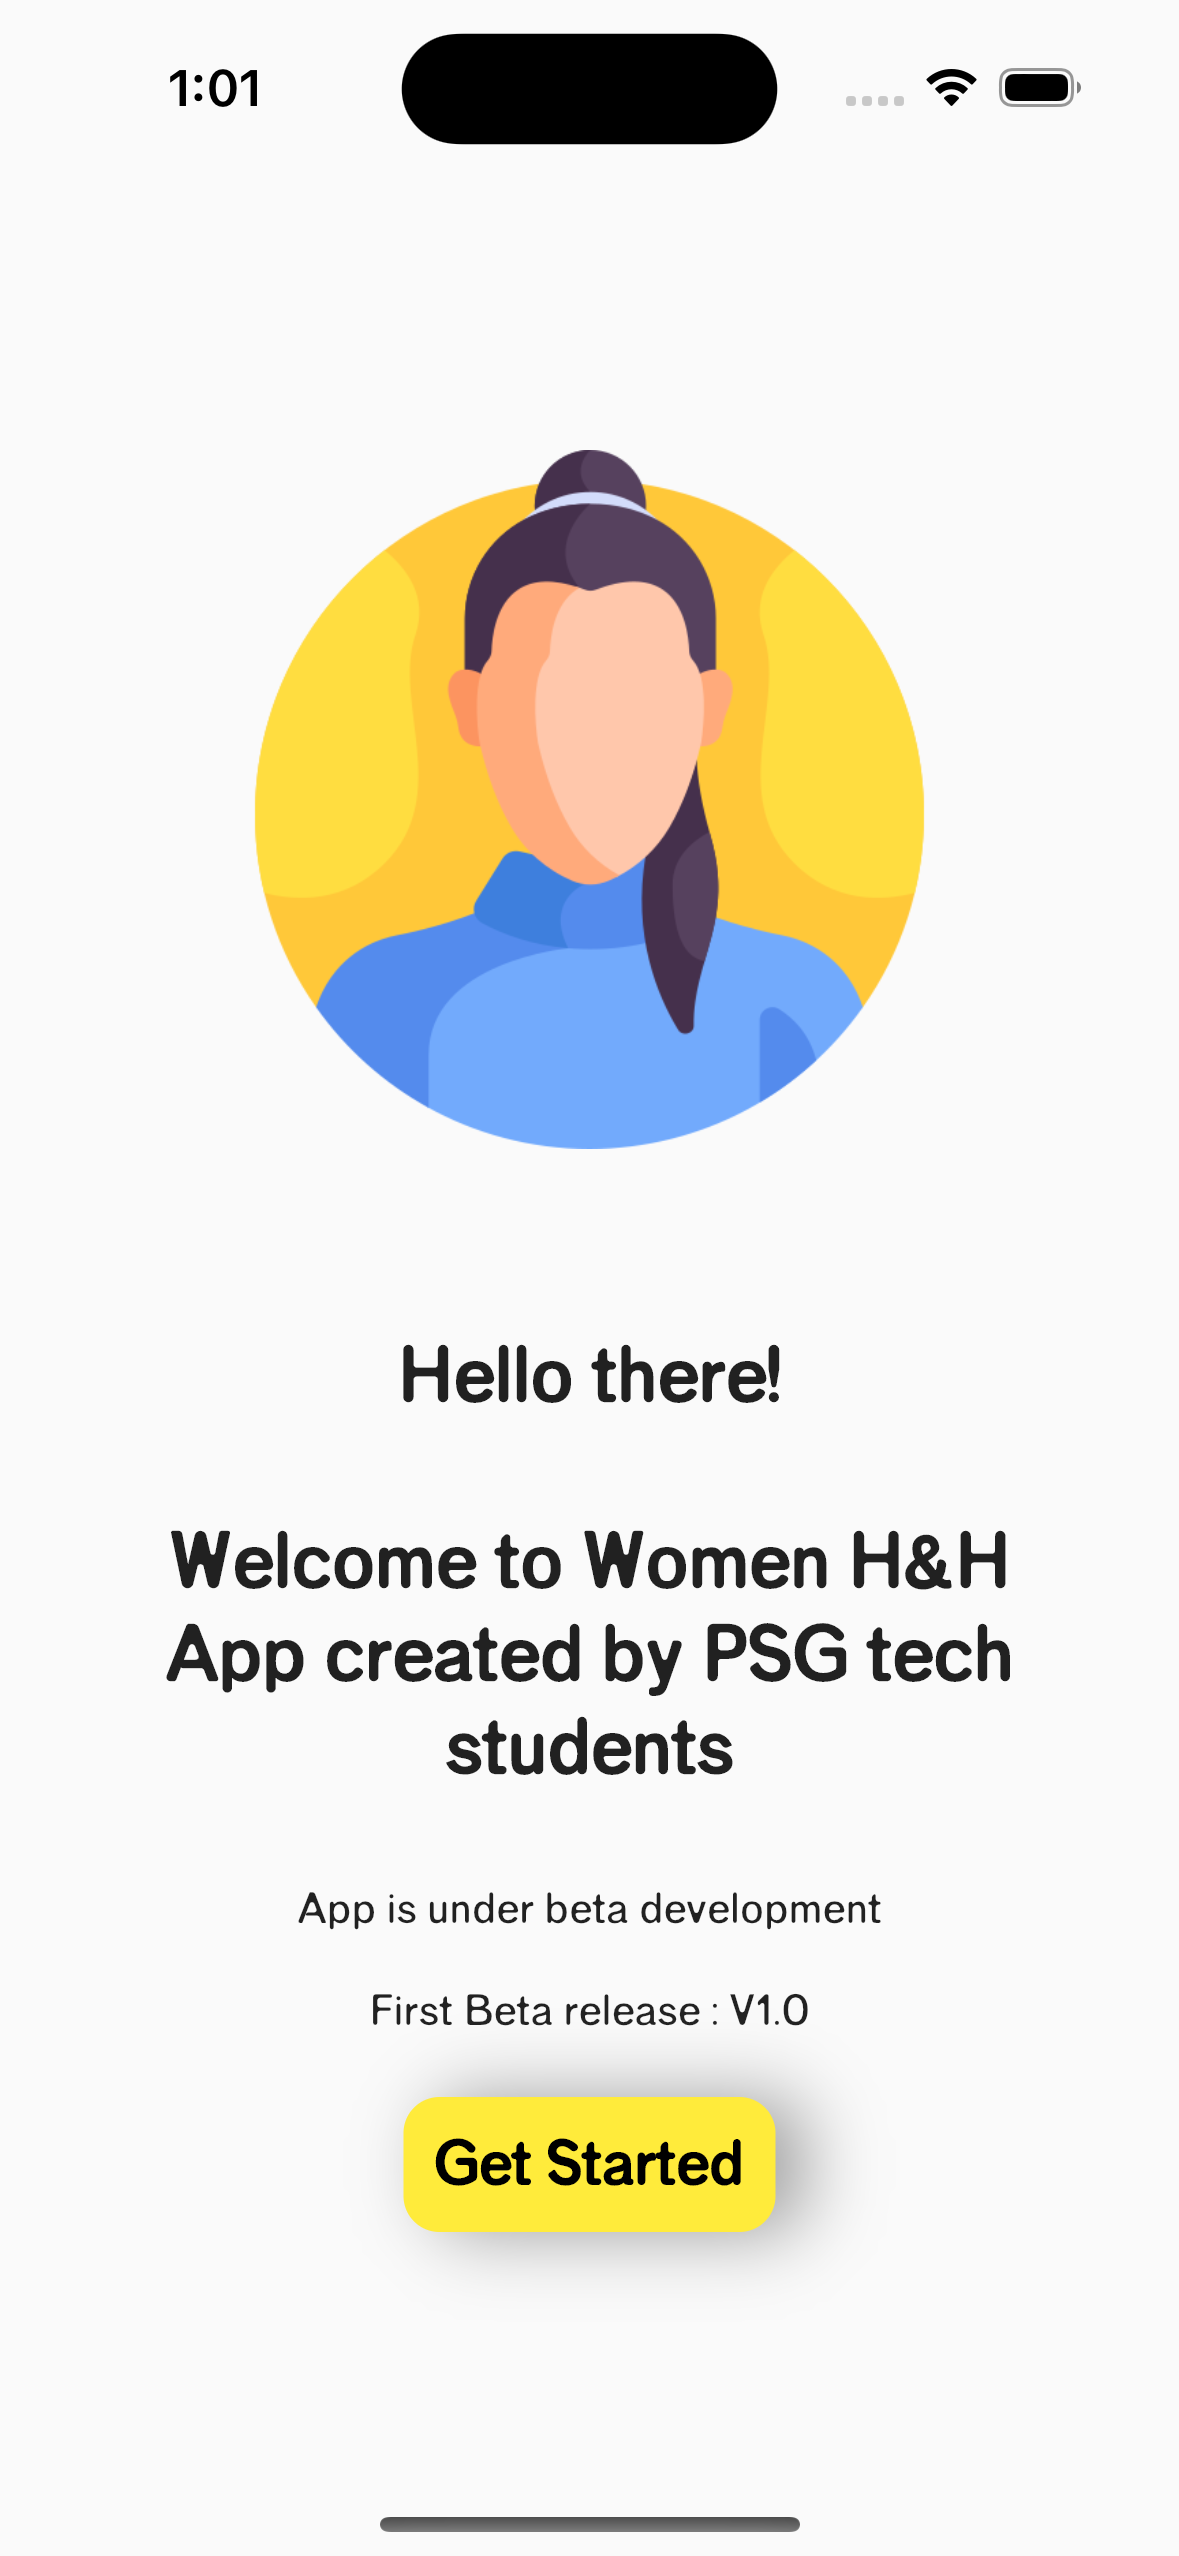
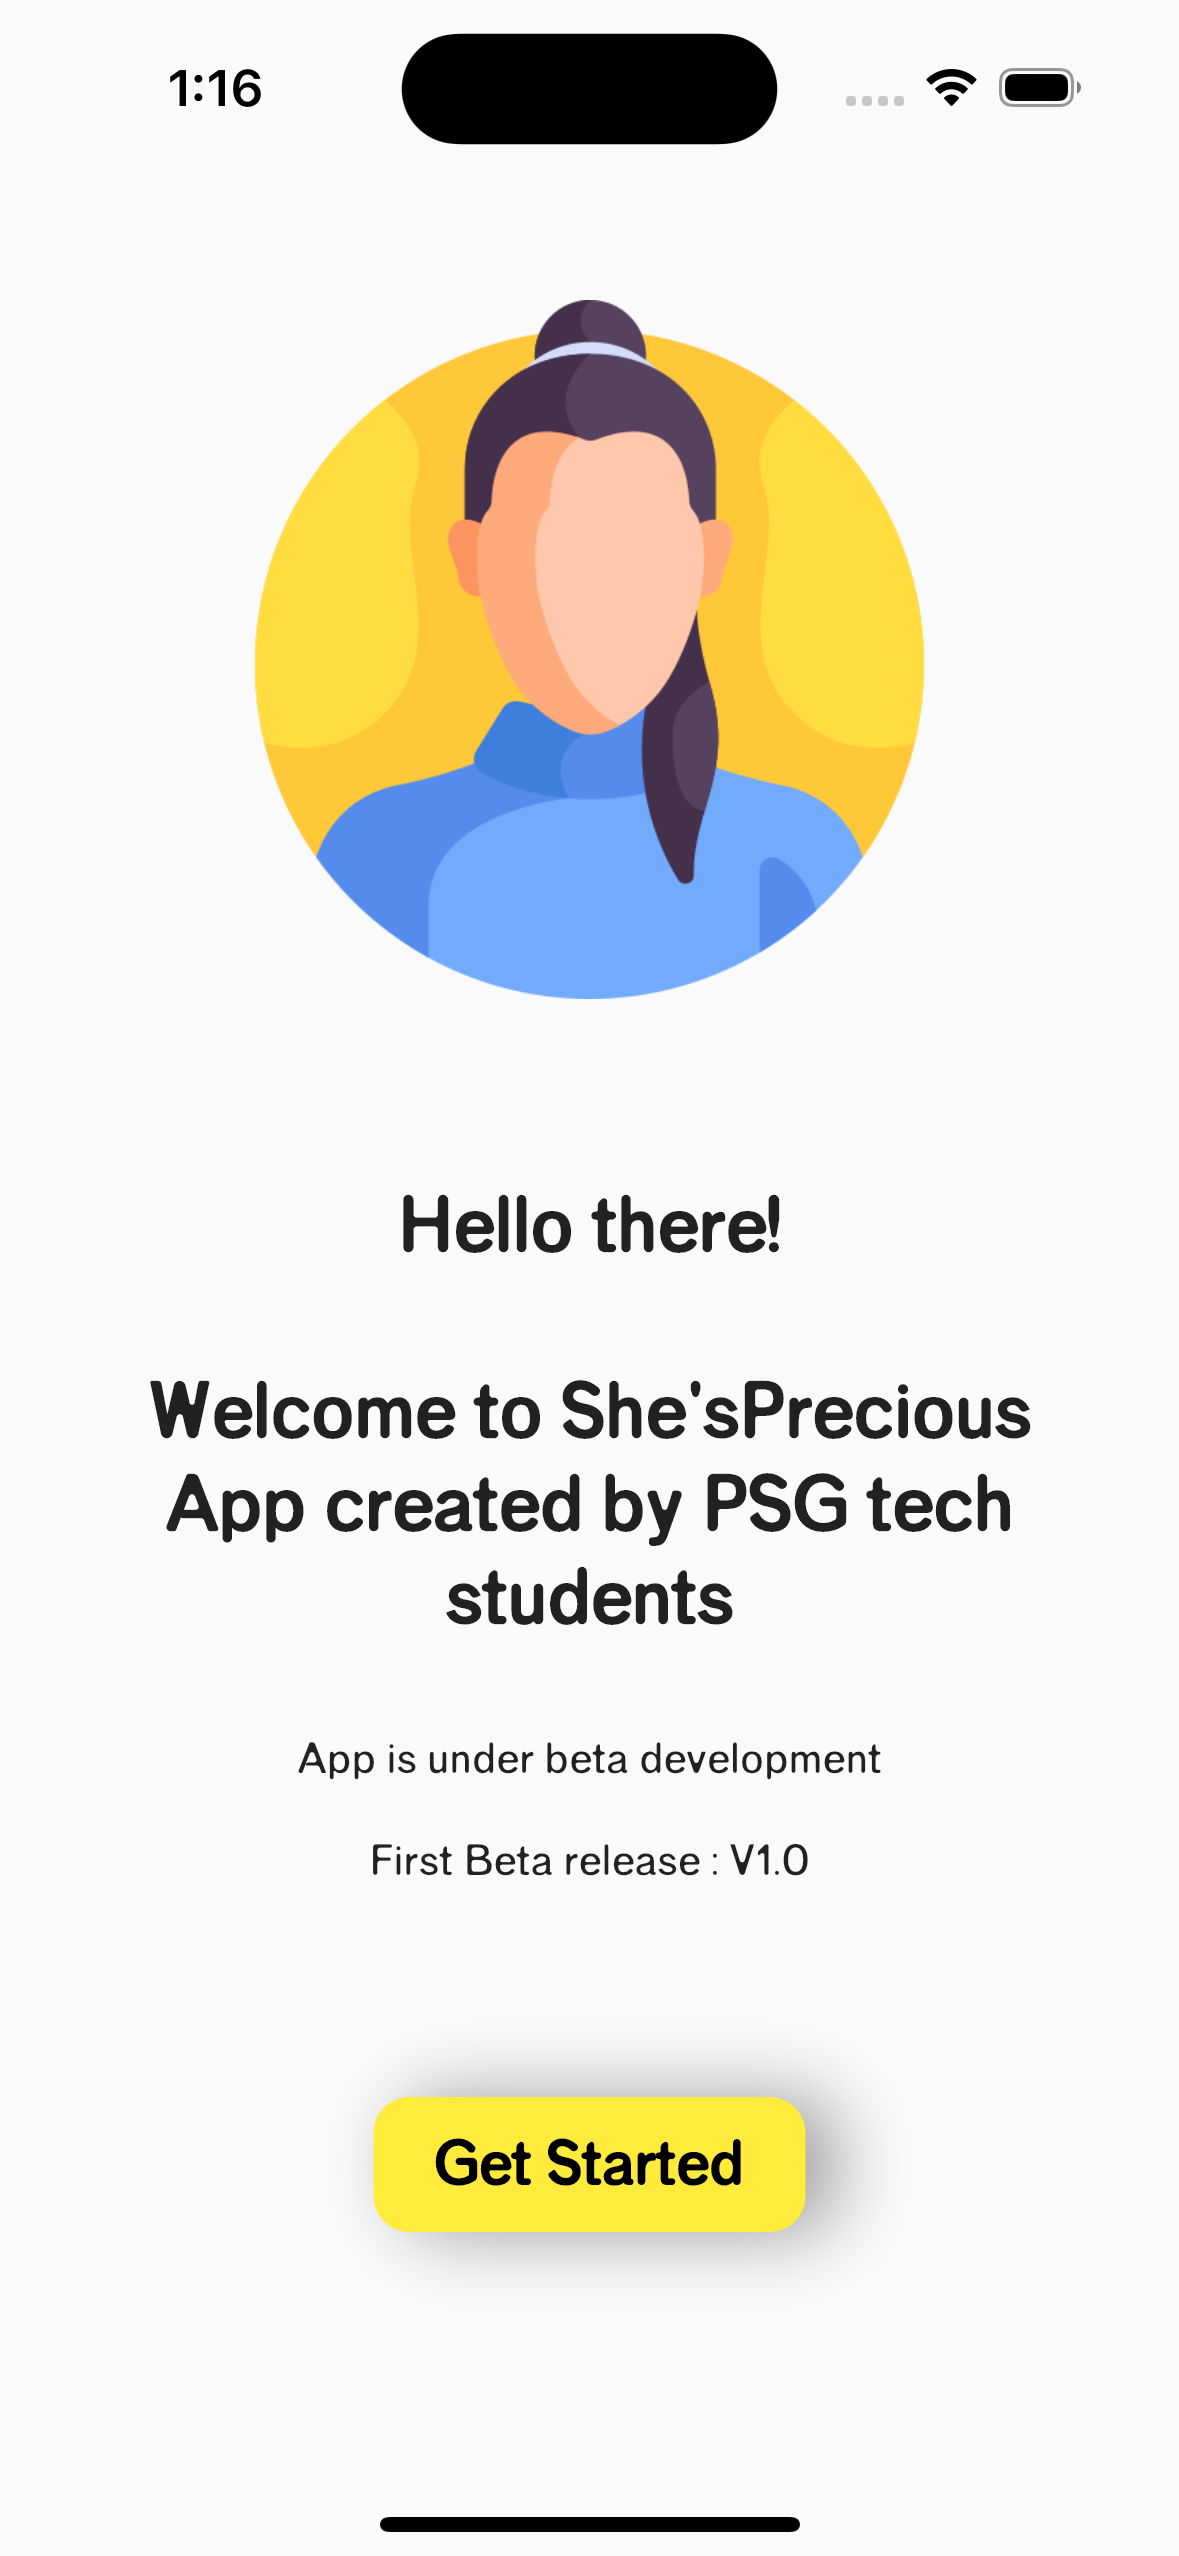
Edited screenshot

diff --git a/lib/pages/intro_page.dart b/lib/pages/intro_page.dart
@@ -43,7 +43,7 @@ class IntroPage extends StatelessWidget {
           // lets get started
 
           Padding(
-            padding: const EdgeInsets.all(20.0),
+            padding: const EdgeInsets.symmetric(vertical: 70.0),
             child: GestureDetector(
               onTap: () => Navigator.pushReplacement(context,
                   MaterialPageRoute(builder: (context) {
@@ -60,7 +60,8 @@ class IntroPage extends StatelessWidget {
                   ],
                   borderRadius: BorderRadius.circular(12),
                 ),
-                padding: const EdgeInsets.all(10),
+                padding:
+                    const EdgeInsets.symmetric(horizontal: 20, vertical: 10),
                 child: const Text(
                   "Get Started",
                   style: TextStyle(
